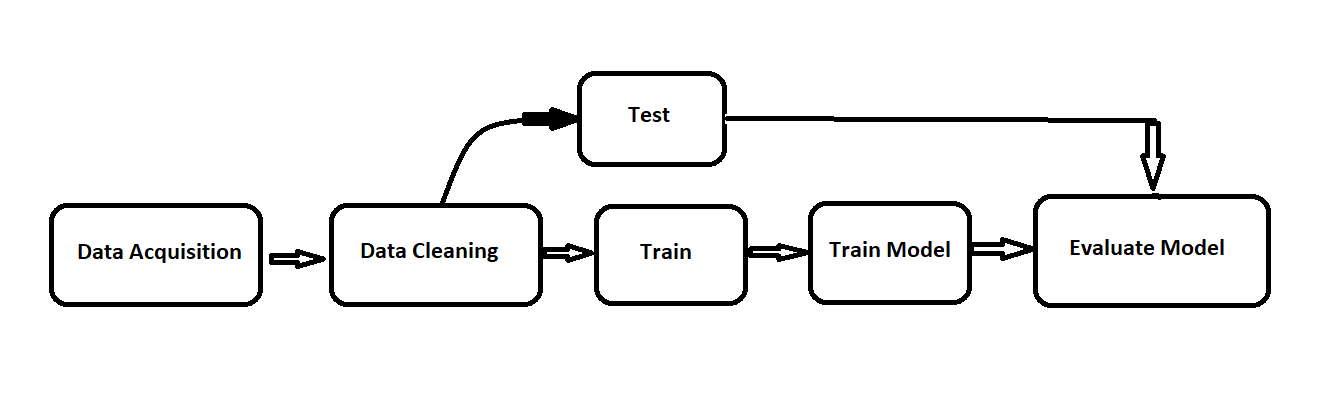
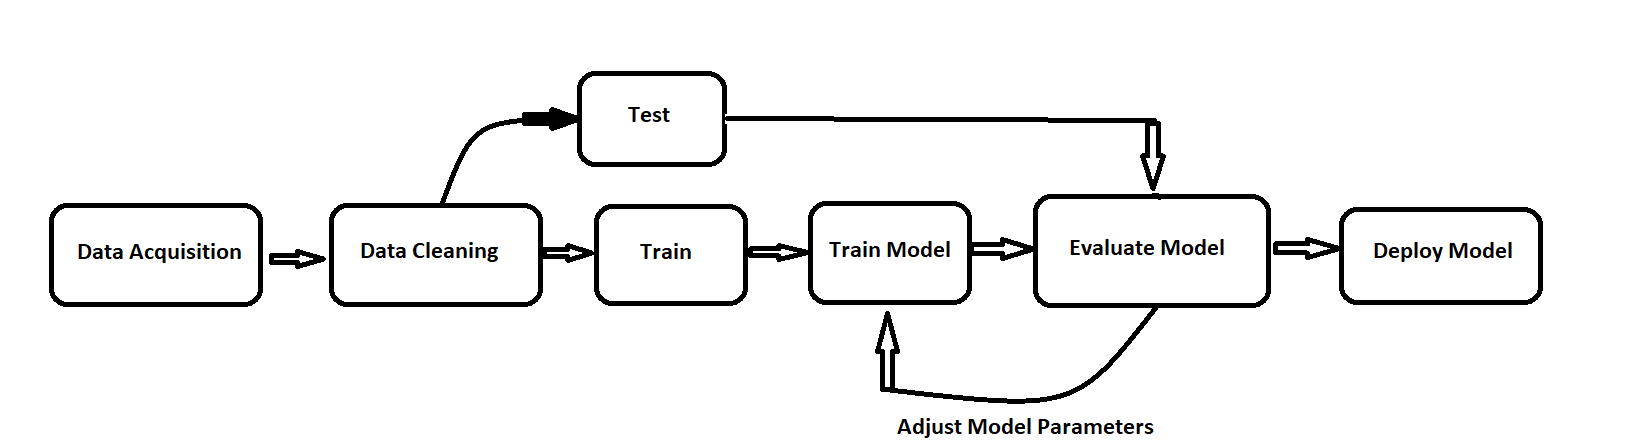
Basic Work Flow update

Changed region(s): [[0.0307, 0.1456, 0.9513, 0.9029], [0.5217, 0.932, 0.7058, 0.9903]]

diff --git a/README.md b/README.md
@@ -36,5 +36,14 @@
 * So the agent chooses actions that maximize some specified reward metric over a given amount of time. 
 * Then the agent will learn the best policy with the environment and will response with best actions. 
 
-## Work flow 
+## Work Flow 
 ![Basic Work Flow](basicworkflow.png)
+
+* Data Acquisition: well we need to acquire data for our task so basically it depends on the task.
+* Data Cleaning: We need to clean the data, split clean tak out edges or normalaize the data. 
+* Test & Train: ratio could be 30% on test and 70% on trainning.
+* Train Model: we now fit our model with the training set. like the model that we'll be using now we need to fit our data into the model and we need to train the model with our data. 
+* Evaluate Model: now we evaluate the model with our test data. 
+*Now Adjust the Model Parameters*
+* Deploy Model: now if all goes well then just deploy the model. 
+> On **Unspuervised learning** we dont have any test set because we dont have any label. So we use all the data as **training data and evaluate the model with the training data**. So that we can justify our model. 
